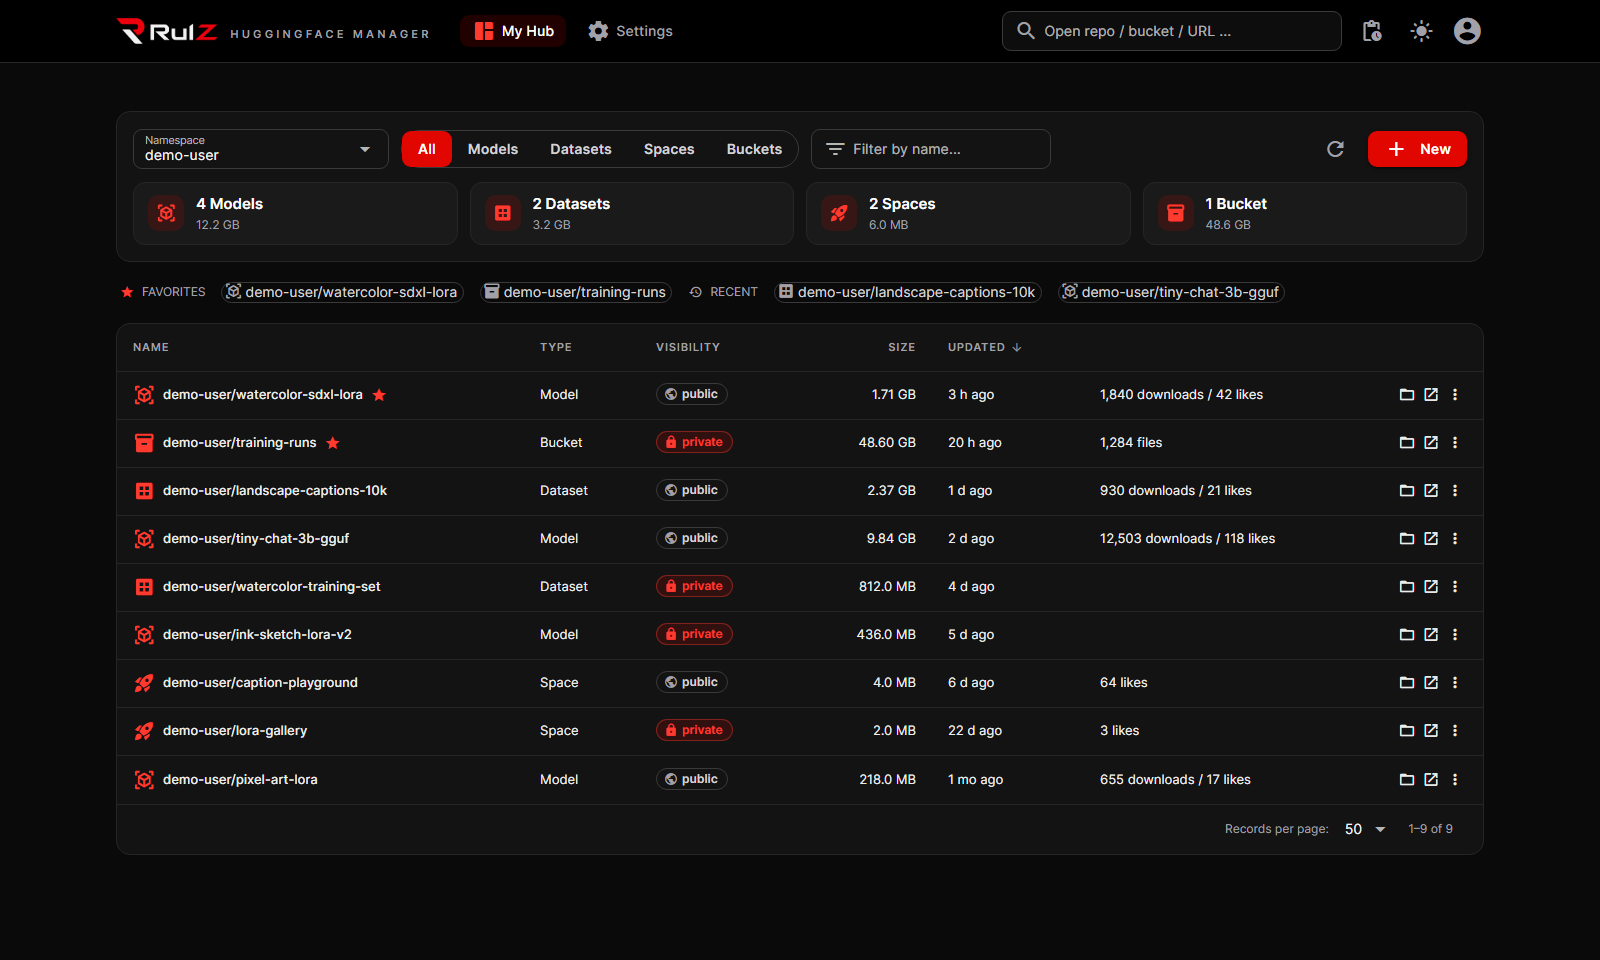
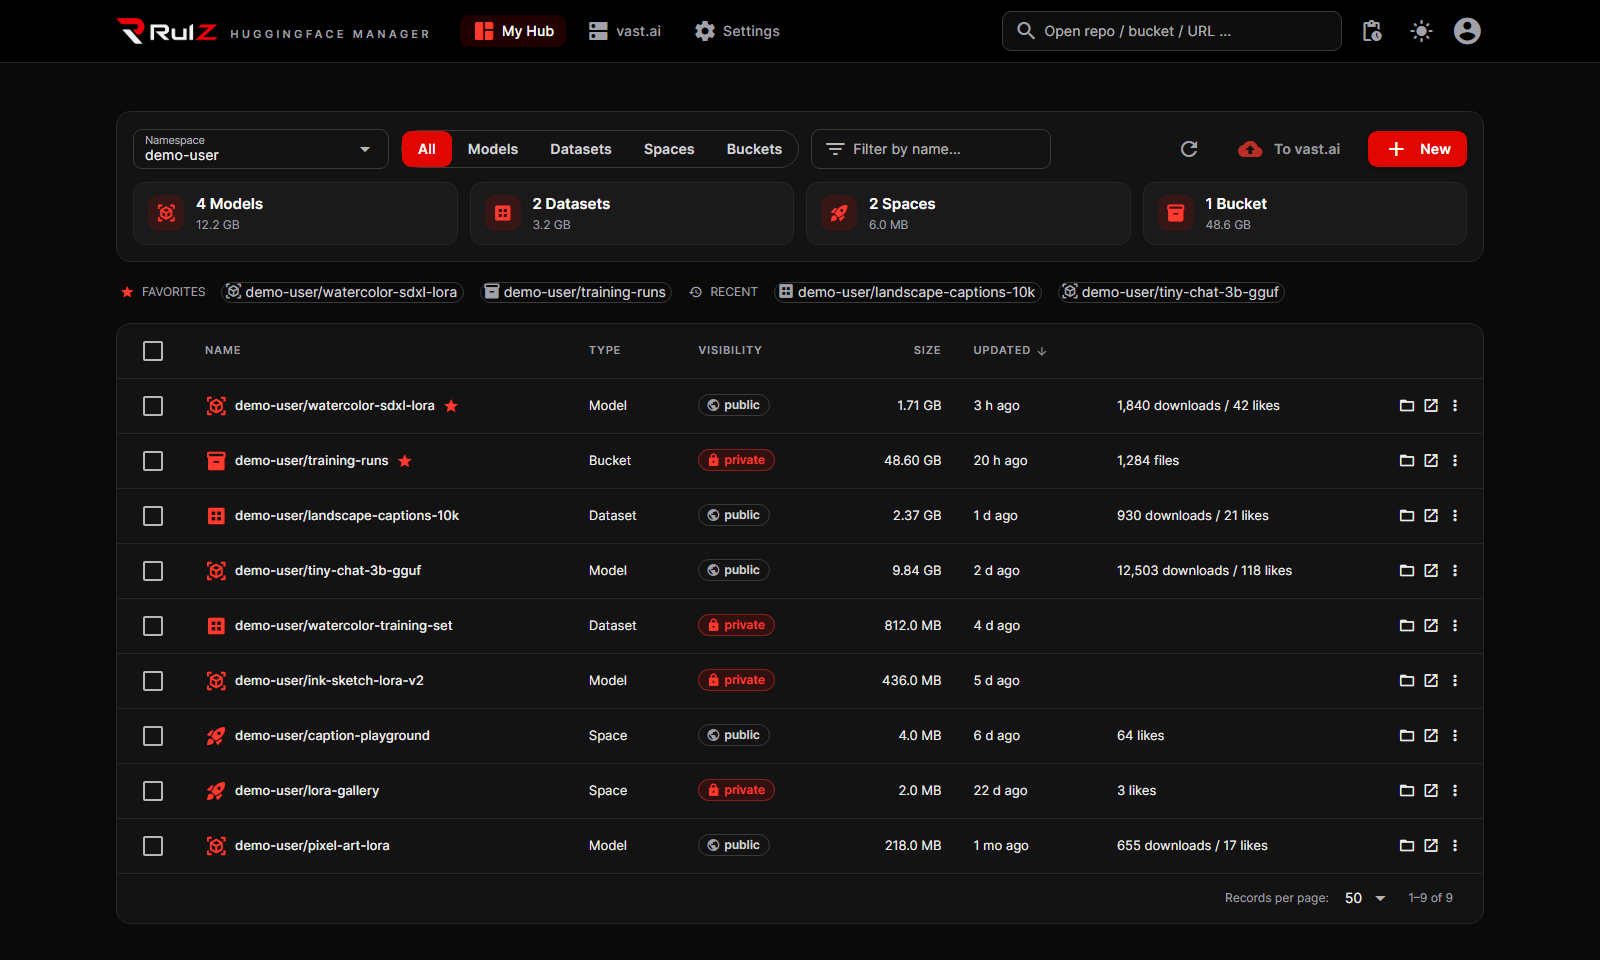
Launcher 1.13.2: README audit and new screenshots
Every app README checked against its source and corrected, new screenshots of
the launcher and ten apps (demo content only), and the capture tools updated.

- READMEs: wrong and missing details fixed in all twelve apps (RulzTrainer's
  model count, FIBO-in-ComfyUI, Android pairing, Image Tournament saves, Image
  Grid tile sizes and more); the root README's app table matches the wiki.
- Screenshots: launcher home (dark/light), app page and install dialog (now an
  R:\ path, no user folder); RulzTrainer (wizard model step, dataset gallery,
  fake fleet), LLM Suite (chat, Reverse Engineering, MCP Tools, Developer,
  Settings), Coding Agent (scripted against its mock server, plus phone
  access), HF Manager (vast.ai page and transfers), Clip Extractor, Training
  Captioner, Image Preparer, Image Organizer and Image Tournament.
- Catalog: HF Manager, LLM Suite and Coding Agent cards name their newer
  features; offline README copies re-synced.
- tools/screenshots: README rewritten for how this round was made;
  capture_coding_agent.ts, rulz_trainer_fake_fleet.py, make_demo_llm_chats.py
  and launcher/trainer plans added; harnesses run the apps from apps/.

Image Crawler (needs its model on a GPU) and Image Grid keep their images.

diff --git a/README.md b/README.md
@@ -49,11 +49,13 @@ sudo apt update && sudo apt install -y python3 python3-venv
 --port 8765       use another port (also configurable in Settings)
 --host 0.0.0.0    listen on the network (not recommended: anyone who can reach it can use your token)
 --no-browser      don't open a browser window
+--version         print the version and exit
 ```
 
 Example: `start-windows.bat --port 9000` or `./start-linux.sh --no-browser`.
 
-Starting the app a second time just opens the already-running instance.
+Starting the app a second time just opens the already-running instance. If something else has the port, the app
+takes the next free one and the console says which.
 
 ## First steps
 
@@ -74,7 +76,8 @@ The token is stored only on your computer:
 | Windows | `%APPDATA%\RulZ-HF-Manager\settings.json` |
 | WSL / Linux | `~/.config/rulz-hf-manager/settings.json` (permissions `600`) |
 
-Windows and WSL keep separate settings, so add the token once in each.
+Windows and WSL keep separate settings, so add the token once in each. To keep the settings file somewhere else,
+set `RULZ_HF_CONFIG_DIR` to a folder before starting the app.
 
 ## Features
 
@@ -106,7 +109,7 @@ Windows and WSL keep separate settings, so add the token once in each.
 - **Preview and edit** text files (README, JSON, YAML, Python...) with syntax highlighting, and preview images.
   Saving creates a commit (or PR).
 - **New folder**: create (nested) folders, then upload into them.
-- Repos: switch **branches**, create branches, see the **commit history**.
+- Repos: switch **branches**, create branches, see the **commit history** (the newest 200 commits).
 - Buckets: **Sync** a local folder up to the bucket, or a bucket folder down to your computer, rsync-style:
   preview exactly what will be uploaded/downloaded/deleted, then run it.
 - Repos: **Push a whole folder** (a big folder goes in several commits; a push that broke off continues where it
@@ -155,7 +158,7 @@ want; switch any time with the sun / moon button at the top right or under Setti
   it through a name of its own pointed at your computer ("DNS rebinding"). To open it under another name (a hosts-file
   alias, a reverse proxy), set `RULZ_HF_ALLOWED_HOSTS=name1,name2` before starting it (`*` turns the check off).
 - Temporary files (zips for browser downloads, sync plans) that an earlier run left behind, for example because the
-  console window was closed, are removed the next time the app starts.
+  console window was closed, are removed when the app starts, once nothing in them has changed for three days.
 - Files you pick with "from this computer" are read directly from disk, so multi-GB uploads don't pass through
   the browser. Under WSL, Windows drives are under `/mnt/c`, `/mnt/d`...; you can also paste a Windows path
   like `C:\Users\me\model` and it is converted automatically.
